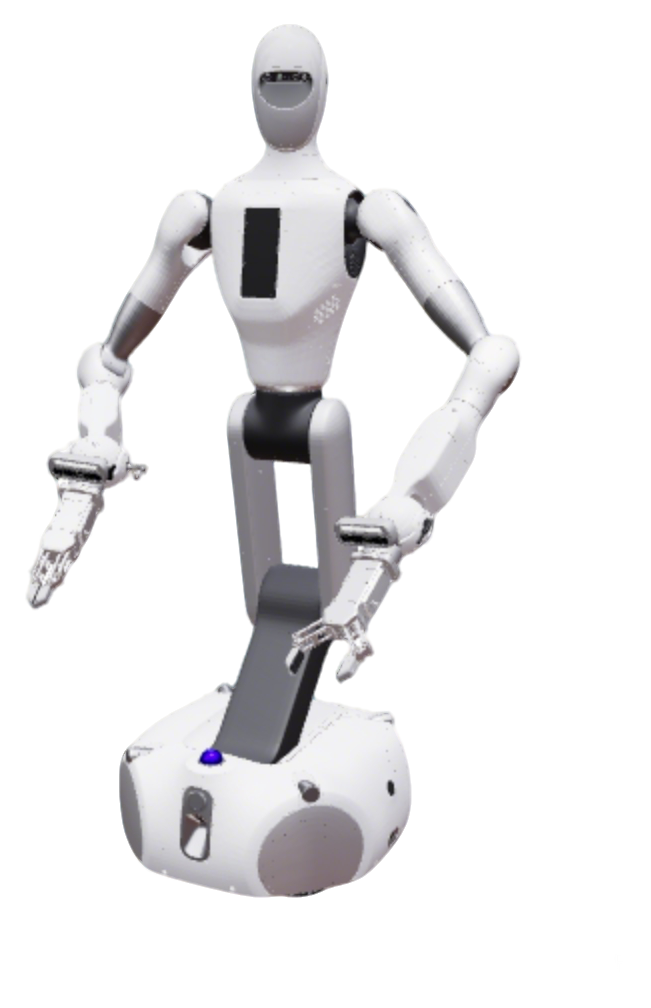
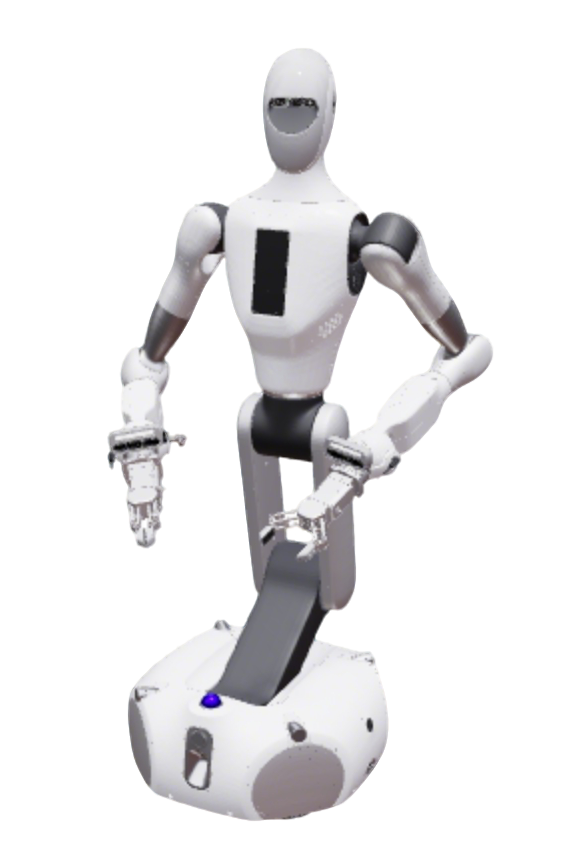
更新galbot整体readme以及照片

Changed region(s): [[0.0301, 0.0306, 0.8741, 0.9788]]

diff --git a/README.md b/README.md
@@ -1,120 +1,65 @@
 # Galbot Robots
 
-This directory contains Galbot humanoid robot description packages. Each package provides URDF/Xacro, mesh, RViz, and controller configuration files for one Galbot model.
+Galbot humanoid robot description packages. Each package contains its own URDF/Xacro, meshes, RViz, and controller configuration.
 
-| Brand  | Model                                      | Repaint | Images                                             |
-|--------|--------------------------------------------|---------|----------------------------------------------------|
-| Galbot | [Zero](galbot_zero_description/)           | Yes     | <img src=".images/galbot_zero.png" width="200">    |
-| Galbot | [One](galbot_one_description/)             | Yes     | <img src="../.images/galbot_one.png" width="200">  |
-| Galbot | [Charlie](galbot_charlie_description/)     | Yes     | <img src=".images/galbot_charlie.png" width="200"> |
-| Galbot | [G1 Golf](galbot_golf_description/)        | Yes     | <img src=".images/galbot_golf.png" width="200">    |
-| Galbot | [G1 Foxtrot](galbot_foxtrot_description/)  | Yes     | <img src=".images/galbot_foxtrot.png" width="200"> |
-| Galbot | [S1](galbot_s1_description/)               | Yes     | <img src=".images/galbot_s1.png" width="200">      |
+| Brand | Model | Repaint | Images |
+|---|---|---|---|
+| Galbot | [Zero](galbot_zero_description/) | Yes | <img src=".images/galbot_zero.png" width="160"> |
+| Galbot | [One](galbot_one_description/) | Yes | <img src="../.images/galbot_one.png" width="160"> |
+| Galbot | [One Charlie](galbot_charlie_description/) | Yes | <img src=".images/galbot_charlie.png" width="160"> |
+| Galbot | [G1 Foxtrot](galbot_foxtrot_description/) | Yes | <img src=".images/galbot_foxtrot.png" width="160"> |
+| Galbot | [G1 Golf](galbot_golf_description/) | Yes | <img src=".images/galbot_golf.png" width="160"> |
+| Galbot | [S1](galbot_s1_description/) | Yes | <img src=".images/galbot_s1.png" width="160"> |
 
-## Usage
+## Common Commands
 
-Each Galbot description is a ROS2 package that can be built and used independently.
-
-### Build
-
-Build an individual package:
+Build one model:
 
 ```bash
 cd ~/ros2_ws
-colcon build --packages-up-to <package_name> --symlink-install
-```
-
-For example:
-
-```bash
-cd ~/ros2_ws
-colcon build --packages-up-to galbot_foxtrot_description --symlink-install
-```
-
-### Visualize
-
-Galbot packages are visualized through `robot_common_launch` with the robot name listed above.
-
-Robot name:
-
-```bash
-robot:=<robot_argument>
-```
-
-Example:
-
-```bash
+colcon build --packages-up-to <package> --symlink-install
 source ~/ros2_ws/install/setup.bash
-ros2 launch robot_common_launch manipulator.launch.py robot:=galbot_foxtrot
 ```
 
-Some models use `humanoid.launch.py` or expose additional variants such as `type:=hitbot`, `type:=galbot_gripper`, or `type:=none`. See the package README for model-specific launch commands, component modules, OCS2 demos, and navigation examples.
-
-
-### Official OCS2 Mobile Manipulator Demo
-
-Robot name:
+Visualize a full robot. Most mobile manipulators use `manipulator.launch.py`; Zero and One use `humanoid.launch.py`.
 
 ```bash
-robot_name:=<robot_argument>
+ros2 launch robot_common_launch manipulator.launch.py robot:=<robot>
 ```
 
-Example:
+Useful visualization arguments:
+
+- `robot:=<robot>` selects the robot, for example `galbot_zero` or `galbot_foxtrot`.
+- `type:=none` hides optional end effectors when the model supports it.
+- `type:=hitbot` or `type:=galbot_gripper` selects a gripper variant when available.
+- `collider:=simple` selects simple collision geometry on models that expose collider modes.
+
+Visualize one component:
 
 ```bash
-source ~/ros2_ws/install/setup.bash
-ros2 launch robot_common_launch manipulator_ocs2.launch.py robot_name:=galbot_foxtrot
+ros2 launch robot_common_launch component.launch.py robot:=<robot> type:=<component>
 ```
 
-[Screencast from 2025-08-29 18-01-39.webm](https://github.com/user-attachments/assets/d9c63f0a-4b28-45b2-a046-77b3883a7504)
+Common component values include `chassis`, `body`, `head`, `arm`, and gripper-specific entries such as `left_gripper` or `right_gripper`. The exact list is model-specific.
 
-### OCS2 Arm Controller Demo
-
-#### Mock Component
-
-OCS2 arm controller demos use `robot:=<robot_argument>`.
-
-Example:
+Run OCS2 demos. The default hardware is `mock_components`.
 
 ```bash
-source ~/ros2_ws/install/setup.bash
-ros2 launch ocs2_arm_controller full_body.launch.py robot:=galbot_foxtrot
+ros2 launch robot_common_launch manipulator_ocs2.launch.py robot_name:=<robot>
+ros2 launch ocs2_arm_controller full_body.launch.py robot:=<robot>
+ros2 launch ocs2_arm_controller split_body.launch.py robot:=<robot>
 ```
 
-#### Isaac Sim
+`manipulator_ocs2.launch.py` is the official mobile manipulator demo. `full_body.launch.py` and `split_body.launch.py` are arm controller demos. Add `hardware:=isaac` for Isaac Sim where supported; otherwise the launch uses mock components. Navigation examples and model-specific OCS2 or gripper commands live in each package README.
 
-Example:
+## Packages
 
-```bash
-source ~/ros2_ws/install/setup.bash
-ros2 launch ocs2_arm_controller full_body.launch.py robot:=galbot_foxtrot hardware:=isaac
-```
-
-###  Gripper Support
-
-Galbot models include several end-effector configurations depending on the robot package:
-
-- `type:=hitbot` for Hitbot gripper variants
-- `type:=galbot_gripper` for Galbot gripper variants
-- `type:=none` for models that can hide the end effector
-- `type:=left_gripper` and `type:=right_gripper` for Galbot S1 GE103-in gripper modules
-
-Standalone gripper visualization is also available for packages that provide gripper components:
-
-```bash
-source ~/ros2_ws/install/setup.bash
-ros2 launch robot_common_launch gripper.launch.py gripper:=<robot_argument>
-```
-
-## Package Structure
-
-```
+```text
 Galbot/
-├── .images/                     # Robot and gripper images for documentation
-├── galbot_zero_description/     # Galbot Zero robot package
-├── galbot_one_description/      # Galbot One robot package
-├── galbot_charlie_description/  # Galbot Charlie robot package
-├── galbot_golf_description/     # Galbot G1 Golf robot package
-├── galbot_foxtrot_description/  # Galbot G1 Foxtrot robot package
-└── galbot_s1_description/       # Galbot S1 robot package
+├── galbot_zero_description/
+├── galbot_one_description/
+├── galbot_charlie_description/
+├── galbot_foxtrot_description/
+├── galbot_golf_description/
+└── galbot_s1_description/
 ```
